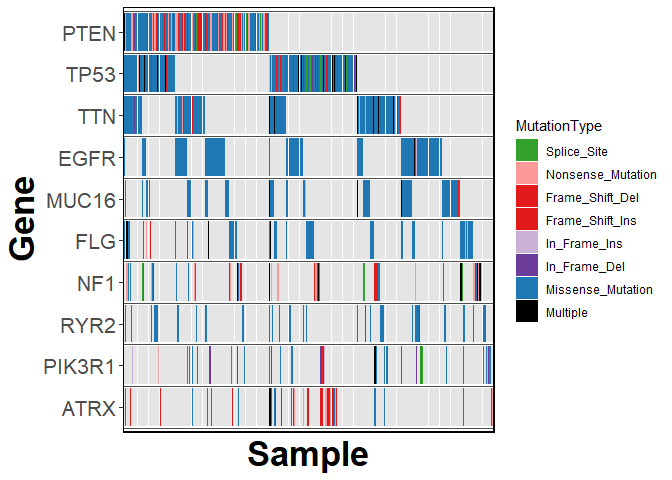
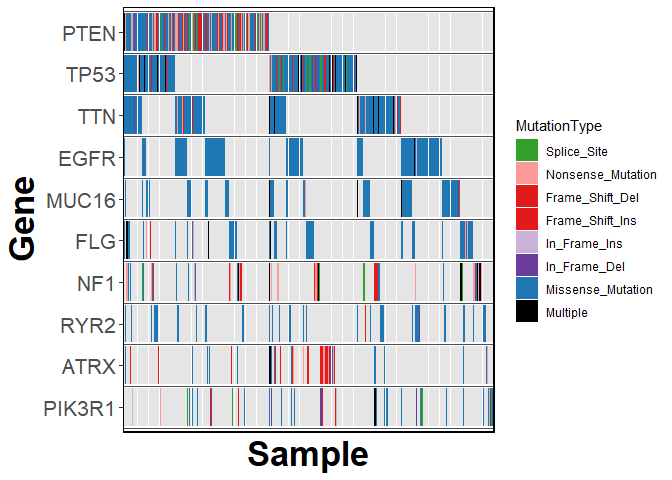
no more multiple. now any multi mutated genes are classified as multi hits

diff --git a/tests/testthat/_snaps/ggoncoplot_data_transformation.md b/tests/testthat/_snaps/ggoncoplot_data_transformation.md
@@ -470,12 +470,12 @@
       # A tibble: 514 x 5
          Sample                       Gene  MutationType      MutationCount Tooltip   
          <fct>                        <fct> <chr>                     <int> <chr>     
-       1 TCGA-19-5956-01A-11D-1696-08 PTEN  Multiple                      3 TCGA-19-5~
-       2 TCGA-19-5956-01A-11D-1696-08 TP53  Nonsense_Mutation             2 TCGA-19-5~
-       3 TCGA-19-5956-01A-11D-1696-08 TTN   Multiple                     28 TCGA-19-5~
+       1 TCGA-19-5956-01A-11D-1696-08 PTEN  Multi_Hit                     3 TCGA-19-5~
+       2 TCGA-19-5956-01A-11D-1696-08 TP53  Multi_Hit                     2 TCGA-19-5~
+       3 TCGA-19-5956-01A-11D-1696-08 TTN   Multi_Hit                    28 TCGA-19-5~
        4 TCGA-19-5956-01A-11D-1696-08 EGFR  Missense_Mutation             1 TCGA-19-5~
-       5 TCGA-19-5956-01A-11D-1696-08 MUC16 Multiple                     15 TCGA-19-5~
-       6 TCGA-06-0743-01A-01D-1492-08 PTEN  Multiple                      2 TCGA-06-0~
+       5 TCGA-19-5956-01A-11D-1696-08 MUC16 Multi_Hit                    15 TCGA-19-5~
+       6 TCGA-06-0743-01A-01D-1492-08 PTEN  Multi_Hit                     2 TCGA-06-0~
        7 TCGA-06-0743-01A-01D-1492-08 TP53  Missense_Mutation             1 TCGA-06-0~
        8 TCGA-06-0743-01A-01D-1492-08 TTN   Missense_Mutation             1 TCGA-06-0~
        9 TCGA-06-0743-01A-01D-1492-08 EGFR  Missense_Mutation             1 TCGA-06-0~

diff --git a/README.md b/README.md
@@ -69,7 +69,6 @@ gbm_df |>
 #> ℹ 0/7 mutation types were valid SO terms
 #> ℹ 7/7 mutation types were valid MAF terms
 #> ✔ Mutation Types are described using valid MAF terms ... using MAF palete
-#> ℹ
 ```
 
 <img src="man/figures/README-example-1.png" width="100%" />
